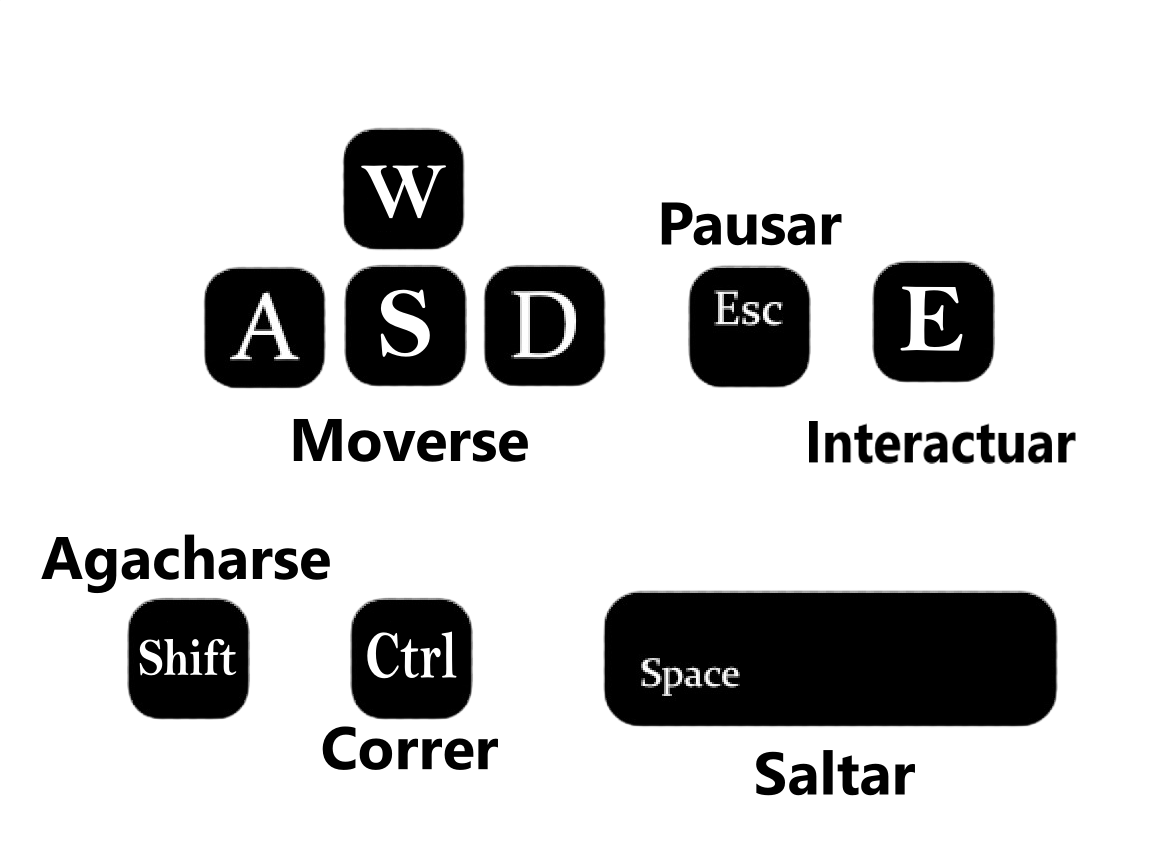
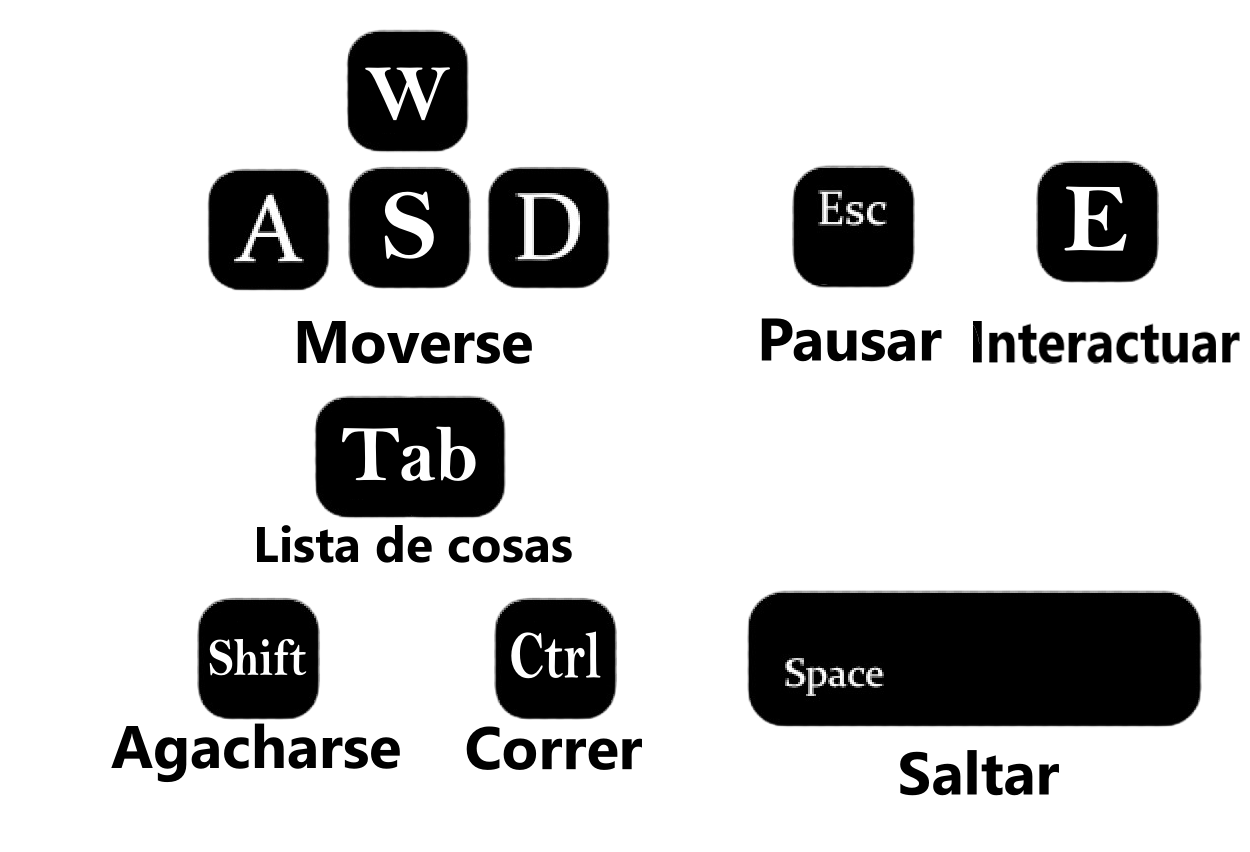
Ya no mas cambios (creo)

diff --git a/P2 - PJ/Assets/Scripts/ExitDoorInteraction.cs b/P2 - PJ/Assets/Scripts/ExitDoorInteraction.cs
@@ -57,6 +57,10 @@ public class ExitDoorInteraction : MonoBehaviour
     private bool estaAnimando = false;
     private bool mouseEncima = false;
 
+    //Rango
+    public float rango = 3f;
+    public GameObject player;
+
     // ══════════════════════════════════════════════════════════
     void Awake()
     {
@@ -73,15 +77,6 @@ public class ExitDoorInteraction : MonoBehaviour
     // ══════════════════════════════════════════════════════════
     //  OnMouse*
     // ══════════════════════════════════════════════════════════
-    void OnMouseEnter()
-    {
-        if (Time.timeScale == 0f || estaAnimando) return;
-        mouseEncima = true;
-        ActualizarTexto();
-        SetLabelActivo(true);
-        SetOutlineActivo(true);
-    }
-
     void OnMouseExit()
     {
         mouseEncima = false;
@@ -92,6 +87,20 @@ public class ExitDoorInteraction : MonoBehaviour
     void OnMouseOver()
     {
         if (Time.timeScale == 0f || estaAnimando) return;
+
+        if (Vector3.Distance(player.transform.position, transform.position) > rango)
+        {
+            // Si el jugador está fuera de rango, no mostrar UI ni permitir interacción
+            SetLabelActivo(false);
+            SetOutlineActivo(false);
+            return;
+        }else
+        {
+            mouseEncima = true;
+            ActualizarTexto();            
+            SetLabelActivo(true);
+            SetOutlineActivo(true);
+        }
 
         if (Input.GetKeyDown(KeyCode.E) && objectManager != null && objectManager.TodosRecogidos())
         {

diff --git a/P2 - PJ/Assets/Scripts/DoorInteraction.cs b/P2 - PJ/Assets/Scripts/DoorInteraction.cs
@@ -50,7 +50,7 @@ public class DoorInteraction : MonoBehaviour
     public string textoCerrada = "Presiona E para abrir";
     public string textoAbierta = "Presiona E para cerrar";
 
-    //rango
+    //Rango
     public float rango   = 3f;
     public GameObject player;
 